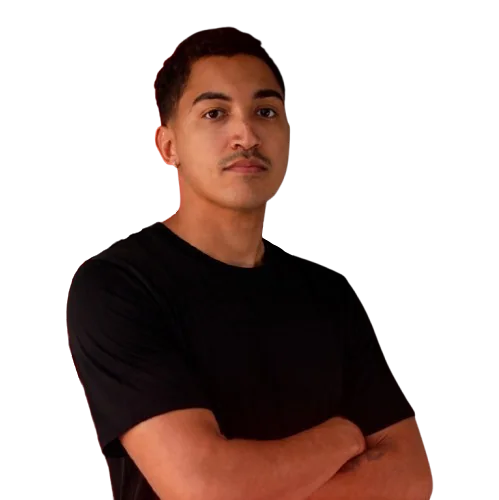
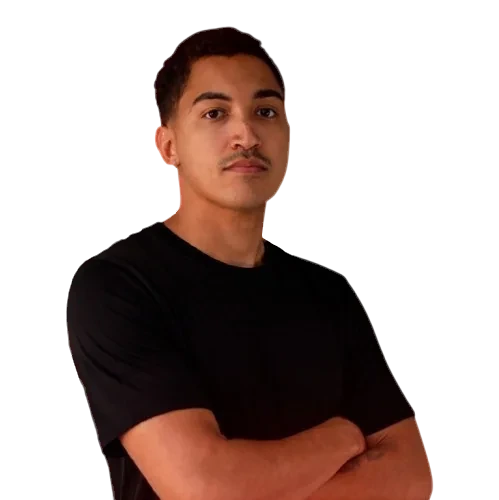
Foto do Illan sem a borda vermelha no cabelo e "Campeão" com C maiúsculo no topo
- Contorno do recorte (illan-1.webp) limpo: a cor vermelha que sobrou do fundo original foi trocada pela cor real do cabelo/pele vizinha; o brilho do card atrás continua
- Topo: "Campeão sul-americano"

diff --git a/site/index.html b/site/index.html
@@ -72,7 +72,7 @@
   </div>
   <div class="wrap hero__grid">
     <div class="hero__text">
-      <p class="tag"><span class="tag__pill">Coach de EA FC 27</span><span class="tag__txt">campeão sul-americano</span></p>
+      <p class="tag"><span class="tag__pill">Coach de EA FC 27</span><span class="tag__txt">Campeão sul-americano</span></p>
       <h1 class="hero__title" id="hero-title" data-letters>Pare de perder na Weekend League e <span class="hl">comece a jogar no manual.</span></h1>
       <p class="hero__sub">O FC 27 tirou a defesa da IA e passou pra sua mão. O método de um campeão <span class="nw">sul-americano</span> te ensina a jogar assim, aula por aula.</p>
       <ul class="chips" aria-label="O que você treina">
@@ -211,7 +211,7 @@
   <div class="wrap about">
     <div class="about__media">
       <div class="about__photo">
-        <img src="assets/illan-1.webp" width="499" height="500" loading="lazy" decoding="async" alt="Coach Illan de braços cruzados, camiseta preta.">
+        <img src="assets/illan-1.webp?v=2" width="499" height="500" loading="lazy" decoding="async" alt="Coach Illan de braços cruzados, camiseta preta.">
       </div>
       <figure class="post">
         <div class="tilt tilt--post">
